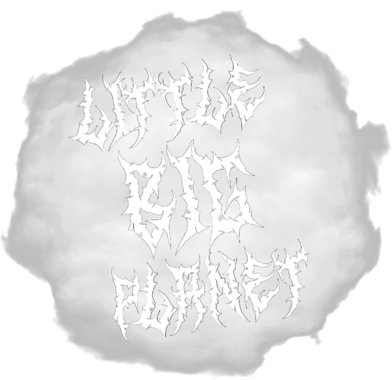
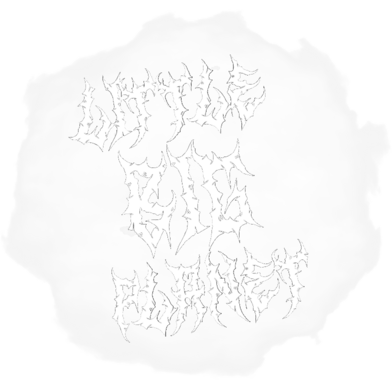
add fullscreen timetable for vj25

diff --git a/static/vauhtijuoksu2025/css/style.scss b/static/vauhtijuoksu2025/css/style.scss
@@ -76,7 +76,86 @@ h1, h2, h3, h4, h5, h6{
   text-shadow: 0 0 3px black, 0 0 3px black, 0 0 3px black, 0 0 3px black, 0 0 3px black, 0 0 3px black, 0 0 3px black, 0 0 3px black;
   padding-top: 5px;
 }
+.full-content {
+  color: $vj25white;
+  text-shadow: 0 0 3px black, 0 0 3px black, 0 0 3px black, 0 0 3px black, 0 0 3px black, 0 0 3px black, 0 0 3px black, 0 0 3px black;
+}
+.tabletimetable {
+  .tttcontent {
+    .tttday {
+      .tttgame {
+        background-color: $vj25green0;
+        .tttimg:not(:hover){
+          height: 100px;
+          position: relative;
+        }
+        .tttimg > img {
+          max-width: 300%;
+          pointer-events: none;
+          top: 50%;
+          position: absolute;
+          right: 2px;
+          transform: translate(0, -50%);
+        }
+      }
+      .tttgame > div{
+        align-items: stretch;
+      }
+      .tttgame:hover{
+        background-color: $vj25blue0;
+        .tttimg {
+          filter: drop-shadow(1px 1px 5px black) drop-shadow(-1px -1px 5px black) drop-shadow(-1px 1px 5px black) drop-shadow(1px -1px 5px black);
+        }
 
+        .tttimg > img{
+          top: 50%;
+          position: absolute;
+          max-width: 40vw;
+          left: 10px;
+          transform: translate(0, -50%);
+
+        }
+      }
+    }
+  }
+  .tttday.tttright{
+      .tttgame:hover{
+        .tttimg > img{
+          right: 10px;
+          left: auto;
+        }
+      }
+  }
+}
+
+
+.tabletimetable .tttcontent .tttday .tttgame:hover {
+    padding-left: 5px;
+}
+.tabletimetable .tttcontent .tttday .tttgame:hover > div {
+      background-color: $vj25green0;
+
+}
+.tabletimetable .tttcontent .tttday .tttgame.start-cut {
+  border-color: $vj25green0;
+}
+.tabletimetable .tttcontent .tttday .tttgame:hover > div {
+  flex-direction: row-reverse;
+}
+.tabletimetable .tttcontent .tttday.tttright .tttgame:hover > div {
+  flex-direction: row;
+}
+.widelogoholder{
+  width: 100%;
+  display: flex;
+  flex-direction: row;
+  justify-content: center;
+}
+.header-logo-padded{
+  max-width: 95%;
+  max-height: 30vh;
+  margin: 5px auto -40px auto;
+}
 .fader{
   position: fixed;
   bottom: 0;

diff --git a/templates/vauhtijuoksu/vj2025_fullscreen.html b/templates/vauhtijuoksu/vj2025_fullscreen.html
@@ -1,0 +1,25 @@
+{% extends "generic_base.html" %}
+{% load static cms_tags menu_tags sekizai_tags sass_tags %}
+
+{% block body %}
+    {% addtoblock "css" %}<link href='https://fonts.googleapis.com/css?family=Share Tech Mono' rel='stylesheet'>{% endaddtoblock %}
+    {% addtoblock "css" %}<link href="{% sass_src 'vauhtijuoksu2025/css/style.scss' %}" rel="stylesheet" type="text/css">{% endaddtoblock %}
+    {% addtoblock "css" %}<link href="{% sass_src 'vauhtijuoksu2025/css/full.scss' %}" rel="stylesheet" type="text/css">{% endaddtoblock %}
+    {% addtoblock "js" %}<script src="{% static 'bootstrap.min.js' %}"></script>{% endaddtoblock %}
+    {% addtoblock "js" %}<script src="{% static "vauhtijuoksu2025/js/script.js" %}"></script>{% endaddtoblock %}
+    <div class="widelogoholder">
+    <img src="{% static 'vauhtijuoksu2025/img/widelogo.png' %}" class="header-logo-padded">
+
+    </div>
+    <div id="fs-container">
+        <div class="full-content">
+            <div class="menu-wrapper">
+                <div class="menu">
+                    {% show_menu %}
+                </div>
+            </div>
+            {% placeholder "content" %}
+    <div class="bottompadder"></div>
+        </div>
+    </div>
+{% endblock body %}

diff --git a/templates/vauhtijuoksu/plugins/tabletimetable.html b/templates/vauhtijuoksu/plugins/tabletimetable.html
@@ -6,7 +6,7 @@
         </div>
         {% for day in games %}
             <div class="tttday">
-                {{ day.1.start_time|date:"w"|fiweekday }} {{ day.1.start_time|date:"j.n." }}
+                {{ day.0.start_time|date:"w"|fiweekday }} {{ day.0.start_time|date:"j.n." }}
             </div>
         {% endfor %}
     </div>
@@ -28,11 +28,11 @@
         </div>
 
         {% for day in games %}
-            <div class="tttday">
+            <div class="tttday {% if forloop.counter > 2 %}tttright{% endif %}">
                 {% for game in day %}
                     <div class="tttgame {{ game.cut_style }}" style="top: {{ game.start_percent }}%; bottom: {{ game.end_percent }}%">
                         <div>
-                            <div class="tttimg"><img src="{% static "vauhtijuoksu2024/img/char/"|add:game.img_filename %}"></div>
+                            <div class="tttimg"><img src="{% static "vauhtijuoksu2025/img/char/"|add:game.img_filename %}"></div>
                             <div>
                                 <p>
                                 {{ game.game }}

diff --git a/static/vauhtijuoksu2025/css/full.scss b/static/vauhtijuoksu2025/css/full.scss
@@ -1,0 +1,4 @@
+
+body{
+  background: black;
+}

diff --git a/vauhtijuoksu/settings/base.py b/vauhtijuoksu/settings/base.py
@@ -132,6 +132,7 @@ TEMPLATES = [
 CMS_TEMPLATES = [
     ('vauhtijuoksu/genericSideViuhti.html', 'VJ SideViuhti (Generic)'),
     ('vauhtijuoksu/vj2025.html', 'VJ 2025'),
+    ('vauhtijuoksu/vj2025_fullscreen.html', 'VJ 2025 fullscreen'),
     ('vauhtijuoksu/genericViolet.html', 'VJ OLD Generic violet theme'),
     ('vauhtijuoksu/vj2024.html', 'VJ 2024 theme'),
     ('vauhtijuoksu/vj2024_fullscreen.html', 'VJ 2024 fullscreen theme'),

diff --git a/vj_cms/cms_plugins.py b/vj_cms/cms_plugins.py
@@ -98,7 +98,7 @@ class TabletimetablePlugin(CMSPluginBase):
 
     def render(self, context, instance, placeholder):
         context = super().render(context, instance, placeholder)
-        games = GameInfo.objects.prefetch_related('players').all()
+        games = GameInfo.objects.prefetch_related('players').order_by('start_time').all()
         days = []
         day_was = ""
         day = []
